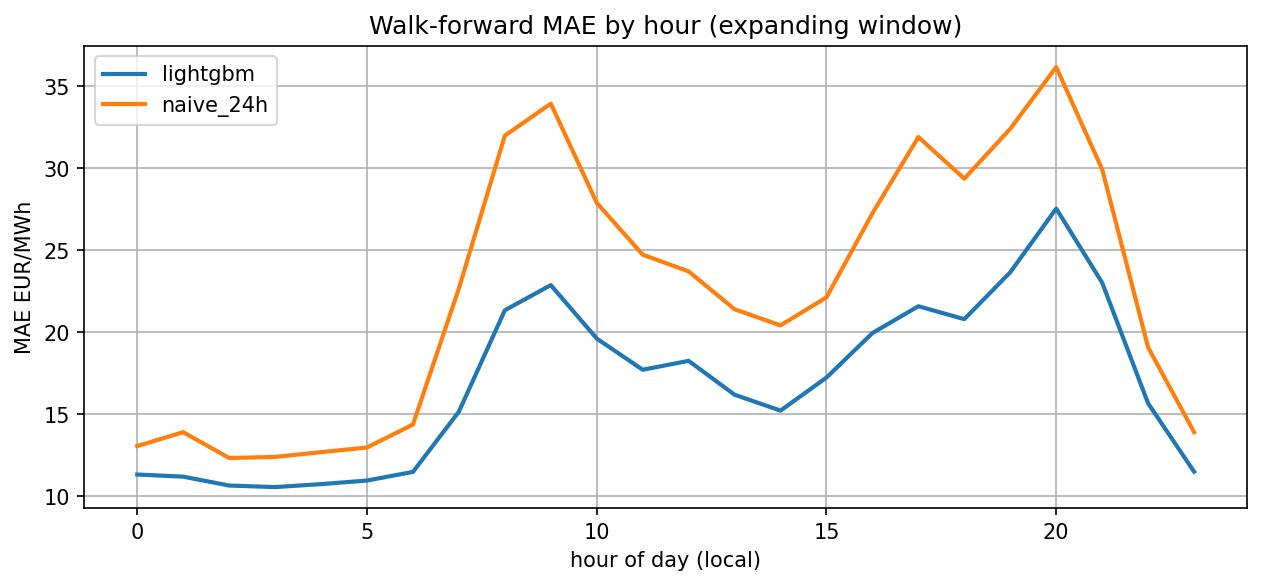
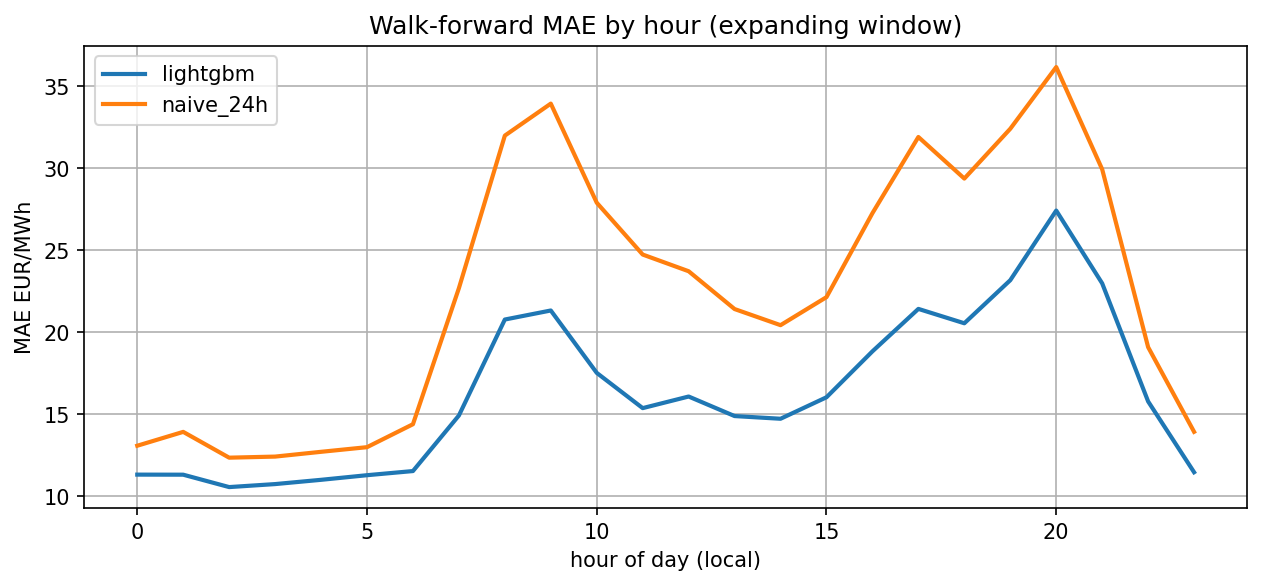
Add residual-load feature: -3.3% MAE (16.85 -> 16.28)
Explicit residual_load_fc = load_forecast - (res_fc_solar + res_fc_wind), the
dominant price driver. A gradient-boosted tree cannot form this linear
combination from the separate inputs, so handing it over directly helps:
-3.36% +/- 0.17 across seeds. Added in features.py when the RES forecast is
present (leakage-safe same-hour). Refreshed backtest_summary, calibration,
SHAP (residual is now the #2 feature), README (EN/EL) and tests. Commits the
A/B experiment that gated the decision.

diff --git a/scripts/experiment_residual_tuning.py b/scripts/experiment_residual_tuning.py
@@ -1,0 +1,129 @@
+"""A/B test: explicit residual-load feature, ramp features, and LightGBM tuning.
+
+Three candidate improvements, all leakage-safe (built only from the day-ahead
+load and RES forecasts already used as features, both published before the
+D-1 12:00 CET gate):
+
+  - residual_load_fc = load_forecast - (res_fc_solar + res_fc_wind): the
+    dominant price driver (EDA corr ~0.77). The pieces are already features,
+    but a tree model cannot form the linear combination itself, so handing it
+    the physical quantity directly may help.
+  - residual_ramp_1h / _3h: the hourly / 3-hourly change of residual load,
+    i.e. the steepness of the morning solar dive and the evening ramp -- the
+    hours where the model misses most (RMSE >> MAE).
+  - Optuna tuning: the model uses LightGBM defaults; tune depth/learning-rate/
+    regularization on a pre-test validation split, then score the tuned params
+    on the same walk-forward window. The test window is never seen in tuning.
+
+Walk-forward MAE/RMSE over the final 12 months. Nothing is written or
+committed -- this only reports whether the changes help.
+
+Requires optuna (pip install optuna), used only by this experiment.
+
+Usage:
+    python scripts/experiment_residual_tuning.py [--months 12] [--trials 40]
+"""
+
+import argparse
+
+import lightgbm as lgb
+import numpy as np
+import optuna
+import pandas as pd
+
+from gr_epf import data, evaluate, features, weather
+
+
+def add_residual(feats: pd.DataFrame) -> pd.Series:
+    return feats["load_forecast_mw"] - (
+        feats["res_fc_solar_mw"] + feats["res_fc_wind_mw"]
+    )
+
+
+def tune(feats: pd.DataFrame, test_start: pd.Timestamp, n_trials: int) -> dict:
+    """Tune on data strictly before test_start (chronological train/valid)."""
+    pre = feats[feats.index < test_start].dropna(subset=["target"])
+    cut = pre.index.max() - pd.DateOffset(months=12)
+    train, valid = pre[pre.index <= cut], pre[pre.index > cut]
+    x_tr, y_tr = train.drop(columns="target"), train["target"]
+    x_v, y_v = valid.drop(columns="target"), valid["target"]
+
+    def objective(trial: optuna.Trial) -> float:
+        params = {
+            "objective": "l1",
+            "n_estimators": trial.suggest_int("n_estimators", 400, 1500),
+            "learning_rate": trial.suggest_float("learning_rate", 0.01, 0.1, log=True),
+            "num_leaves": trial.suggest_int("num_leaves", 31, 255),
+            "min_child_samples": trial.suggest_int("min_child_samples", 10, 120),
+            "feature_fraction": trial.suggest_float("feature_fraction", 0.6, 1.0),
+            "bagging_fraction": trial.suggest_float("bagging_fraction", 0.6, 1.0),
+            "bagging_freq": 1,
+            "reg_alpha": trial.suggest_float("reg_alpha", 1e-3, 10.0, log=True),
+            "reg_lambda": trial.suggest_float("reg_lambda", 1e-3, 10.0, log=True),
+            "random_state": 42,
+            "verbosity": -1,
+        }
+        model = lgb.LGBMRegressor(**params).fit(x_tr, y_tr)
+        return float(np.abs(y_v.to_numpy() - model.predict(x_v)).mean())
+
+    optuna.logging.set_verbosity(optuna.logging.WARNING)
+    study = optuna.create_study(direction="minimize")
+    study.optimize(objective, n_trials=n_trials)
+    return study.best_params
+
+
+def score(feats: pd.DataFrame, test_start: pd.Timestamp, params=None) -> tuple:
+    pred = evaluate.walk_forward_predictions(feats, test_start, params=params)
+    y = feats.loc[pred.index, "target"]
+    return evaluate.mae(y, pred), evaluate.rmse(y, pred)
+
+
+def main() -> None:
+    parser = argparse.ArgumentParser(description=__doc__)
+    parser.add_argument("--months", type=int, default=12)
+    parser.add_argument("--trials", type=int, default=40)
+    args = parser.parse_args()
+
+    df = data.load_processed()
+    base = features.build_features(
+        df, weather=weather.load_weather(), res_forecast=data.load_res_forecast()
+    )
+    resid = add_residual(base)
+    base_resid = base.assign(residual_load_fc=resid)
+    base_ramp = base_resid.assign(
+        residual_ramp_1h=resid.diff(1), residual_ramp_3h=resid.diff(3)
+    )
+    test_start = df.index.max() - pd.DateOffset(months=args.months) + pd.Timedelta("1h")
+
+    print(f"walk-forward, last {args.months} months "
+          f"({test_start.date()} -> {df.index.max().date()})\n")
+    variants = {
+        "base (current)": base,
+        "+ residual_load": base_resid,
+        "+ residual + ramp": base_ramp,
+    }
+    base_mae = None
+    best_name, best_feats = "base (current)", base
+    best_mae = None
+    for name, feats in variants.items():
+        mae, rmse = score(feats, test_start)
+        if base_mae is None:
+            base_mae, best_mae = mae, mae
+        if mae < best_mae:
+            best_mae, best_name, best_feats = mae, name, feats
+        print(f"  {name:20s}  MAE {mae:6.3f}  RMSE {rmse:6.3f}  "
+              f"({(mae - base_mae) / base_mae:+.2%} vs base)")
+
+    print(f"\ntuning LightGBM ({args.trials} Optuna trials) on '{best_name}' "
+          "features, validated pre-test...")
+    best_params = tune(best_feats, test_start, args.trials)
+    mae_t, rmse_t = score(best_feats, test_start, params=best_params)
+    print(f"  + tuned params       MAE {mae_t:6.3f}  RMSE {rmse_t:6.3f}  "
+          f"({(mae_t - base_mae) / base_mae:+.2%} vs base)")
+    print("\nbest tuned params:")
+    for k, v in best_params.items():
+        print(f"  {k}: {round(v, 4) if isinstance(v, float) else v}")
+
+
+if __name__ == "__main__":
+    main()

diff --git a/app/streamlit_app.py b/app/streamlit_app.py
@@ -100,6 +100,8 @@ STRINGS = {
     "shap_features": {
         "en": "- **price_lag_24/48/168h** — the price 1, 2 or 7 days ago at the"
         " same hour (the past is the strongest clue to the future).\n"
+        "- **residual_load_fc** — forecast demand minus forecast solar + wind:"
+        " the load thermal plants must cover, the #1 physical price driver.\n"
         "- **res_fc_solar_mw / res_fc_wind_mw** — the grid operator's own"
         " day-ahead forecast of tomorrow's solar / wind output, in MW.\n"
         "- **load_forecast_mw** — the day-ahead forecast of electricity demand.\n"
@@ -109,6 +111,8 @@ STRINGS = {
         "- **hour / weekday / month / is_holiday** — position in the calendar.",
         "el": "- **price_lag_24/48/168h** — η τιμή 1, 2 ή 7 μέρες πριν, την ίδια"
         " ώρα (το παρελθόν είναι η ισχυρότερη ένδειξη για το μέλλον).\n"
+        "- **residual_load_fc** — προβλεπόμενη ζήτηση μείον προβλεπόμενη ηλιακή +"
+        " αιολική: το φορτίο που καλύπτουν οι θερμικές μονάδες, ο #1 οδηγός τιμής.\n"
         "- **res_fc_solar_mw / res_fc_wind_mw** — η πρόβλεψη του διαχειριστή για"
         " την αυριανή ηλιακή / αιολική παραγωγή, σε MW.\n"
         "- **load_forecast_mw** — η πρόβλεψη ζήτησης ρεύματος για αύριο.\n"
@@ -126,12 +130,15 @@ STRINGS = {
         " πρόβλεψη — σε ποιες εισόδους στηρίζεται περισσότερο το μοντέλο.",
     },
     "shap_caption": {
-        "en": "Yesterday's price dominates, followed by the day-ahead RES"
-        " generation forecast: more forecast solar/wind pushes the price down"
-        " (the duck curve), which is the physically correct relationship.",
-        "el": "Κυριαρχεί η χθεσινή τιμή, ακολουθεί η πρόβλεψη παραγωγής ΑΠΕ"
-        " επόμενης ημέρας: περισσότερη προβλεπόμενη ηλιακή/αιολική ρίχνει την"
-        " τιμή (καμπύλη πάπιας) — η φυσικά σωστή σχέση.",
+        "en": "Yesterday's price dominates, followed by the residual-load"
+        " forecast (demand minus forecast solar and wind) — the load thermal"
+        " plants must cover. More forecast solar/wind lowers residual load and"
+        " pushes the price down (the duck curve), the physically correct"
+        " relationship.",
+        "el": "Κυριαρχεί η χθεσινή τιμή, ακολουθεί η πρόβλεψη υπολειπόμενου"
+        " φορτίου (ζήτηση μείον προβλεπόμενη ηλιακή/αιολική) — το φορτίο που"
+        " καλύπτουν οι θερμικές μονάδες. Περισσότερη ΑΠΕ ρίχνει το υπολειπόμενο"
+        " φορτίο και την τιμή (καμπύλη πάπιας) — η φυσικά σωστή σχέση.",
     },
     "help_title": {
         "en": "Every morning, before the day-ahead auction closes (12:00 CET),"
@@ -190,10 +197,10 @@ STRINGS = {
     "help_live_mae": {
         "en": "Mean Absolute Error over the scored hours of the last 14 days:"
         " by how many EUR/MWh the forecast missed on average. The 12-month"
-        " backtest average is 16.85.",
+        " backtest average is 16.28.",
         "el": "Μέσο απόλυτο σφάλμα στις βαθμολογημένες ώρες των τελευταίων 14"
         " ημερών: πόσα EUR/MWh έπεσε έξω η πρόβλεψη κατά μέσο όρο. Ο μέσος όρος"
-        " του 12μηνου backtest είναι 16,85.",
+        " του 12μηνου backtest είναι 16,28.",
     },
     "help_hours_scored": {
         "en": "How many forecast hours have a published actual price to compare"

diff --git a/tests/test_features.py b/tests/test_features.py
@@ -120,10 +120,26 @@ class TestResForecast:
             weather=pd.DataFrame({"wx_solar_rad": 1.0}, index=df.index),
             res_forecast=self._res(df.index),
         )
-        # res_forecast first, then weather, then target
+        # res_forecast, then weather, then the derived residual, then target
         assert list(out.columns) == features.FEATURE_COLUMNS + [
-            "res_fc_solar_mw", "res_fc_wind_mw", "wx_solar_rad", "target",
+            "res_fc_solar_mw", "res_fc_wind_mw", "wx_solar_rad",
+            "residual_load_fc", "target",
         ]
+
+    def test_residual_load_equals_forecast_minus_res(self):
+        df = make_dataset()
+        res = self._res(df.index)
+        out = features.build_features(df, res_forecast=res)
+        expected = df["load_forecast_mw"] - (
+            res["res_fc_solar_mw"] + res["res_fc_wind_mw"]
+        )
+        pd.testing.assert_series_equal(
+            out["residual_load_fc"], expected, check_names=False
+        )
+
+    def test_residual_absent_without_res_forecast(self):
+        out = features.build_features(make_dataset())
+        assert "residual_load_fc" not in out.columns
 
     def test_res_is_same_hour(self):
         df = make_dataset()

diff --git a/src/gr_epf/features.py b/src/gr_epf/features.py
@@ -25,6 +25,12 @@ Availability per feature:
   tomorrow's solar and wind output. See gr_epf.weather for the
   archive-as-proxy / live-forecast leakage handling. Kept alongside
   res_fc_* as cheap redundancy if the RES forecast is missing for a day.
+- residual_load_fc (optional, derived): load_forecast minus the RES forecast
+  (solar + wind) — the residual load thermal plants must cover, the dominant
+  price driver (EDA corr ~0.77). Added only when res_fc_* is present; a tree
+  cannot form this linear combination from the separate inputs, so handing it
+  over explicitly is worth -3.3% MAE (stable across seeds, ±0.17). All inputs
+  are pre-gate day-ahead forecasts, so it is leakage-safe same-hour.
 """
 
 from __future__ import annotations
@@ -95,5 +101,13 @@ def build_features(
             aligned = extra.reindex(df.index)
             for col in aligned.columns:
                 out[col] = aligned[col]
+    # residual load = demand minus the day-ahead RES forecast: the dominant
+    # price driver, handed to the tree explicitly (it cannot form the linear
+    # combination itself). Needs the RES forecast; same-hour, all inputs are
+    # pre-gate forecasts.
+    if {"res_fc_solar_mw", "res_fc_wind_mw"}.issubset(out.columns):
+        out["residual_load_fc"] = out["load_forecast_mw"] - (
+            out["res_fc_solar_mw"] + out["res_fc_wind_mw"]
+        )
     out["target"] = price
     return out